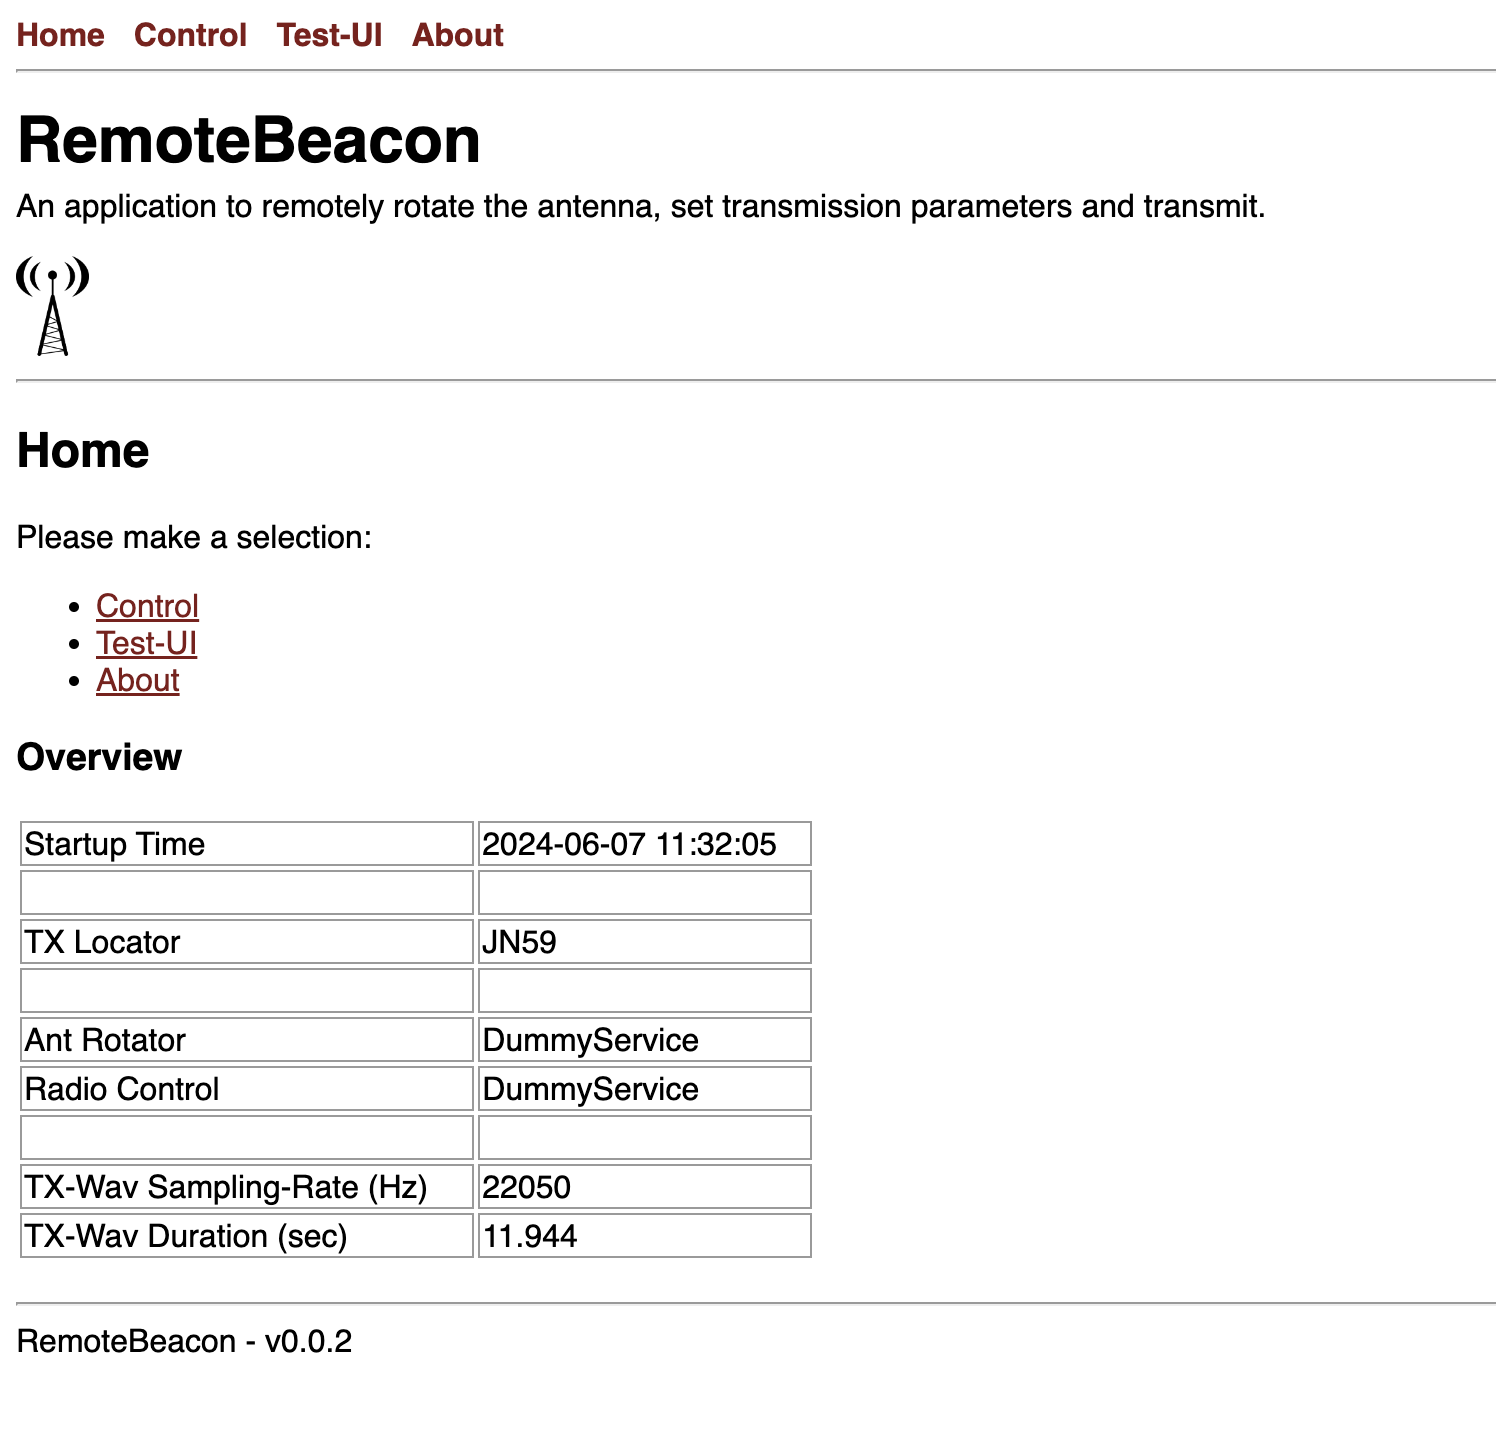
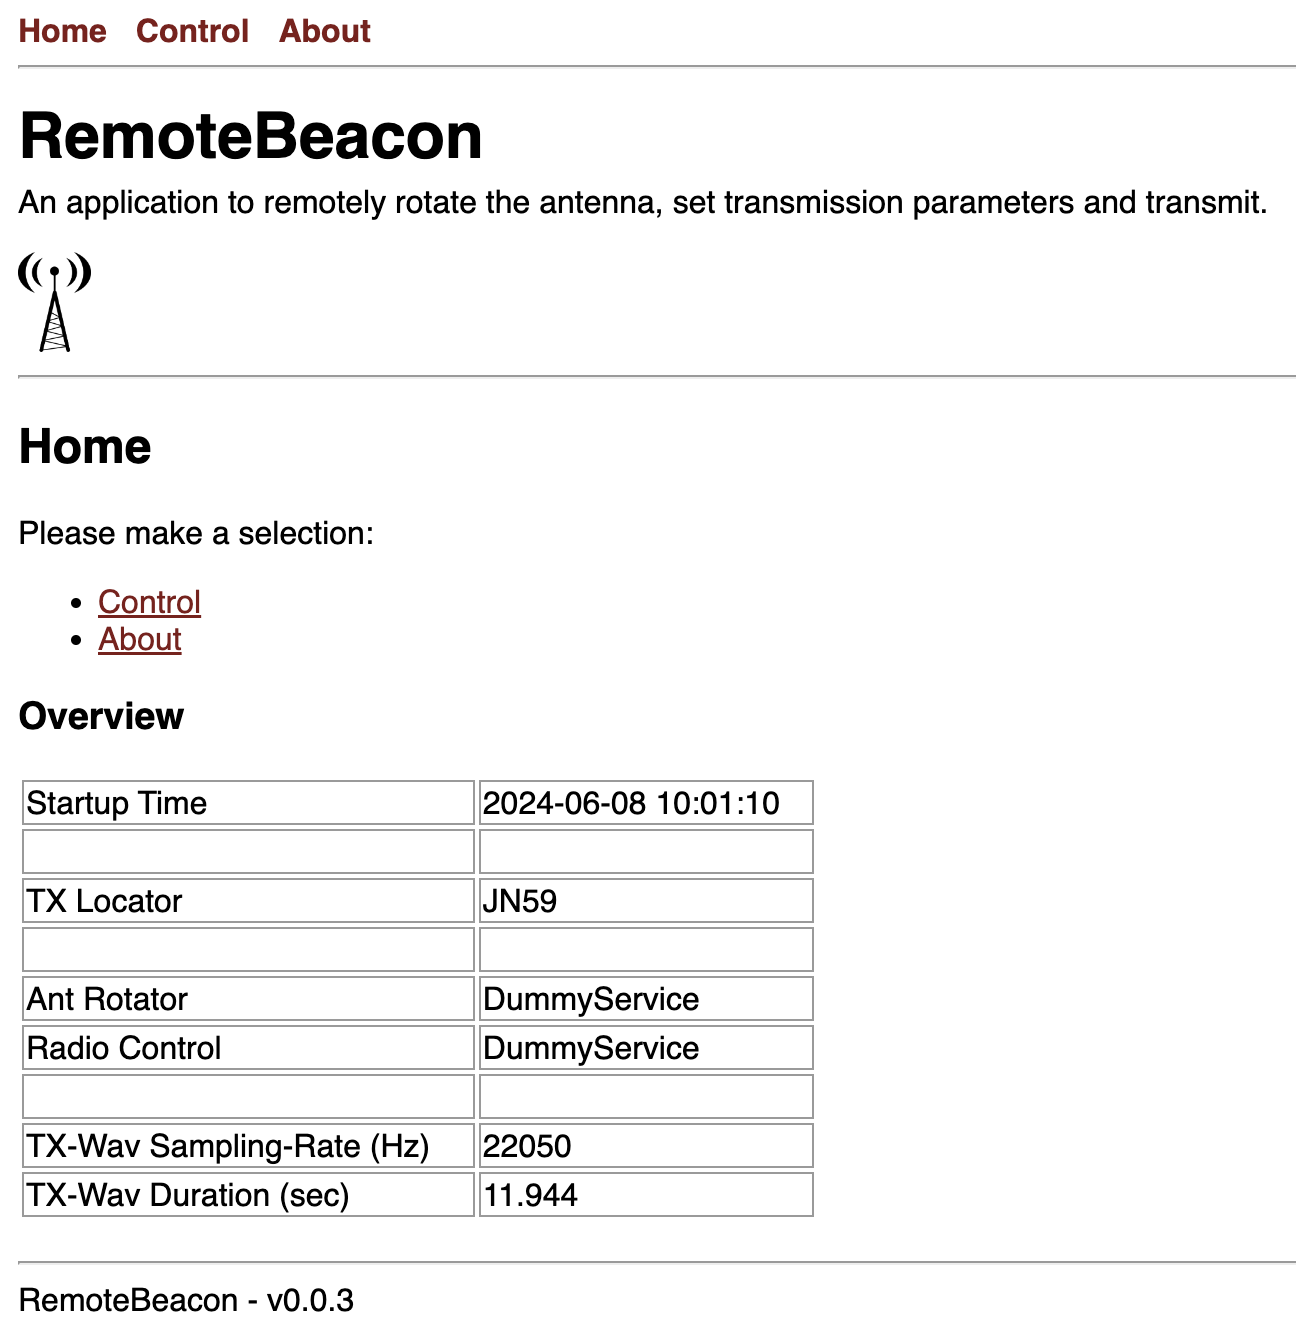
Init

diff --git a/templates/base.html b/templates/base.html
@@ -15,7 +15,7 @@
 <nav id="main_nav">
     <a href="{{ url_for('route_index') }}">Home</a>
     <a href="{{ url_for('route_control') }}">Control</a>
-    <a href="{{ url_for('route_test_ui') }}">Test-UI</a>
+    {#    <a href="{{ url_for('route_test_ui') }}">Test-UI</a>#}
     <a href="{{ url_for('route_about') }}">About</a>
 </nav>
 

diff --git a/app.py b/app.py
@@ -18,7 +18,7 @@ def route_index():
     page_html = "<p>Please make a selection:</p><ul>"
     for url_title, url_target in [
         ('Control', url_for('route_control')),
-        ('Test-UI', url_for('route_test_ui')),
+        # ('Test-UI', url_for('route_test_ui')),
         ('About', url_for('route_about')),
     ]:
         page_html += f'<li><a href="{url_target}">{url_title}</a></li>'

diff --git a/backend/ConfigService.py b/backend/ConfigService.py
@@ -9,7 +9,7 @@ import librosa
 
 class ConfigService:
     C_APP_TITLE = 'RemoteBeacon'
-    C_APP_VERSION = '0.0.2'
+    C_APP_VERSION = '0.0.3'
     C_LOCAL_FILE = 'config.json'
 
     C_LOCAL_WAV_TX_FILE = 'transmit.wav'
